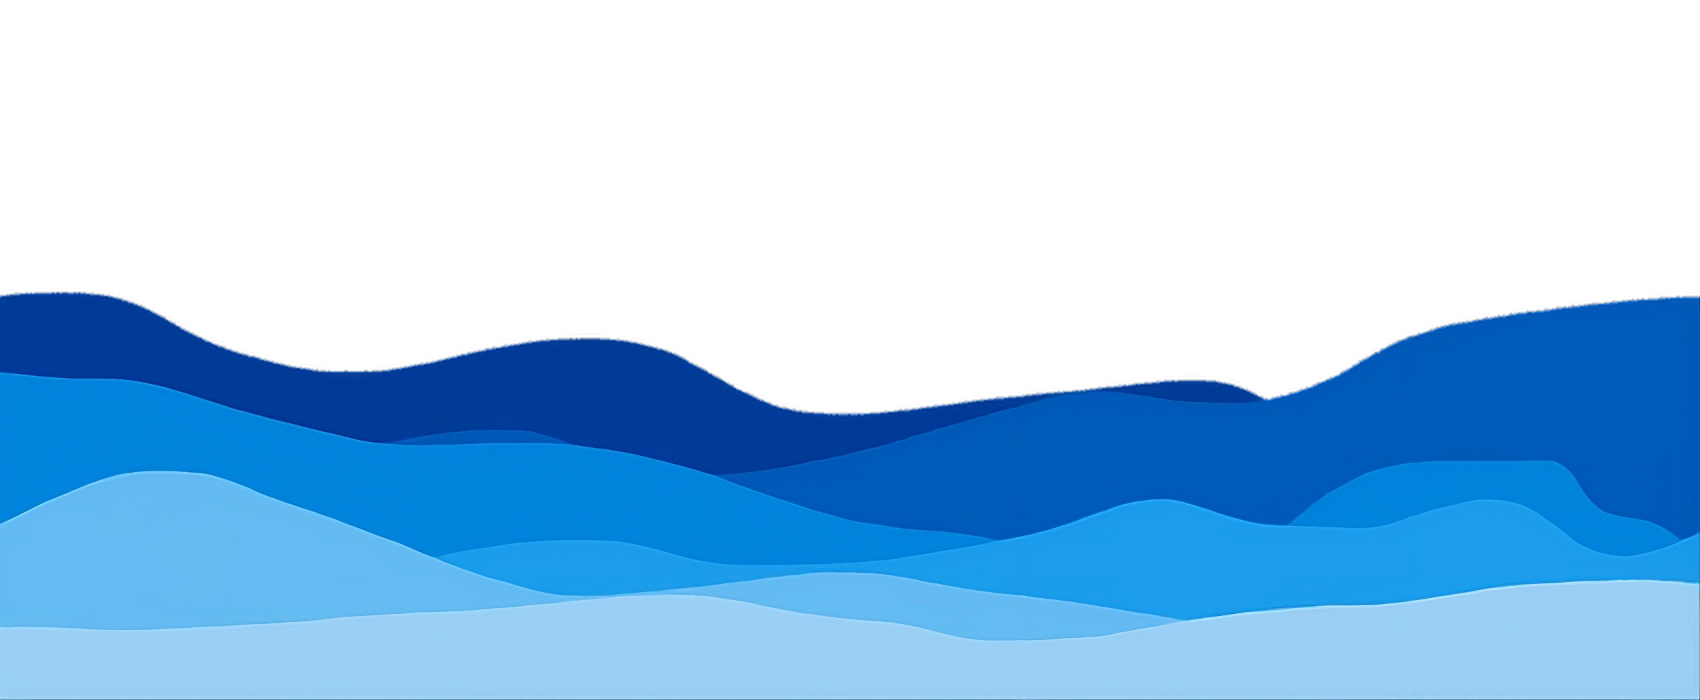
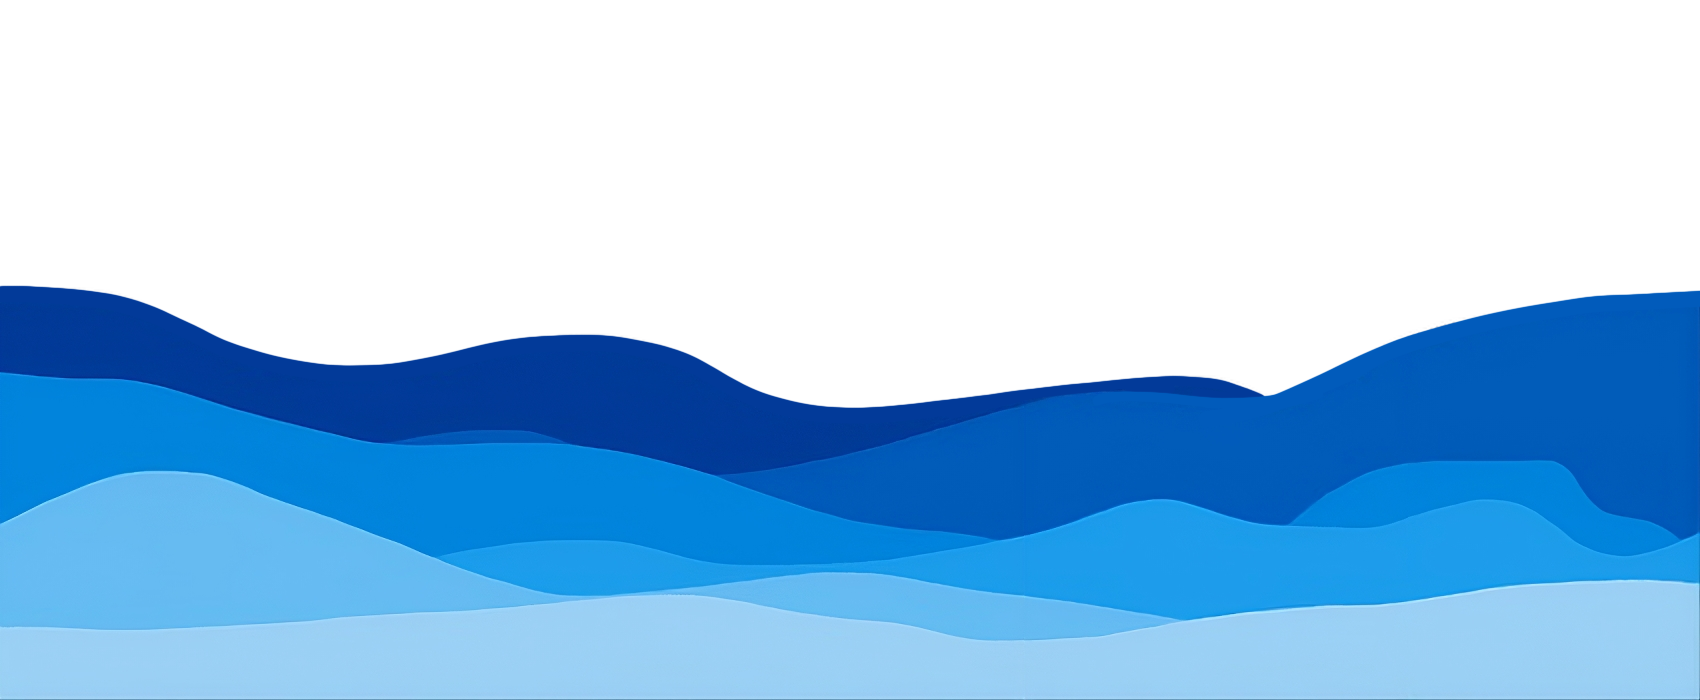
menu at1

diff --git a/estilo.css b/estilo.css
@@ -1,11 +1,12 @@
 body {
-    background-color: rgb(168, 215, 255);
+    background: linear-gradient(rgb(187, 214, 255), rgb(87, 174, 255));
     margin: 0;
 }
 
 #titulo {
     background-color: aliceblue;
-    
+    border-radius: 20px;
+    box-shadow: 0px 4px 10px rgb(42, 152, 255);
 }
 
 h1 {
@@ -19,48 +20,78 @@ h1 {
     display: flex;
     justify-content: center;
     gap: 20vh;
+    margin-bottom: -25vh;
 }
 
 #python {
-    width: 25vh;  
-    height: 20vh;
-    text-align: start;
+    display: flex;
+    flex-direction: column;
+    justify-content: space-between;
+    align-items: center;            
+    width: 25vh;
+    height: 30vh;
     font-family: 'Gill Sans', 'Gill Sans MT', Calibri, 'Trebuchet MS', sans-serif;
     font-size: 5vh;
-    border: 0vh white;
+    border: 0;
     border-radius: 4vh;
-    background-color: rgb(70, 194, 243);
-    color:rgb(222, 240, 255);
+    color: rgb(222, 240, 255);
     cursor: pointer;
     transition: transform 0.3s;
+    background: linear-gradient(
+        to bottom,
+        white 65%,
+        rgb(70, 194, 243) 35%
+    );
+    padding-bottom: 3vh;
+    padding-top: 2vh;
 }
+
 
 #css {
-    width: 25vh;  
-    height: 20vh;
-    text-align: start;
+    display: flex;
+    flex-direction: column;
+    justify-content: space-between;
+    align-items: center;            
+    width: 25vh;
+    height: 30vh;
     font-family: 'Gill Sans', 'Gill Sans MT', Calibri, 'Trebuchet MS', sans-serif;
     font-size: 5vh;
-    border: 0vh white;
+    border: 0;
     border-radius: 4vh;
-    background-color: rgb(46, 105, 231);
-    color:rgb(222, 240, 255);
+    color: rgb(222, 240, 255);
     cursor: pointer;
     transition: transform 0.3s;
+    background: linear-gradient(
+        to bottom,
+        white 65%,
+        rgb(46, 105, 231) 35%
+    );
+    padding-bottom: 3vh;
+    padding-top: 2vh;
 }
 
+
 #html {
-    width: 25vh;  
-    height: 20vh;
-    text-align: start;
+    display: flex;
+    flex-direction: column;
+    justify-content: space-between;
+    align-items: center;            
+    width: 25vh;
+    height: 30vh;
     font-family: 'Gill Sans', 'Gill Sans MT', Calibri, 'Trebuchet MS', sans-serif;
     font-size: 5vh;
-    border: 0vh white;
+    border: 0;
     border-radius: 4vh;
-    background-color: rgb(45, 161, 228);
-    color:rgb(222, 240, 255);
+    color: rgb(222, 240, 255);
     cursor: pointer;
     transition: transform 0.3s;
+    background: linear-gradient(
+        to bottom,
+        white 65%,
+        rgb(45, 161, 228) 35%
+    );
+    padding-bottom: 3vh;
+    padding-top: 2vh;
 }
 
 #python:hover {
@@ -75,8 +106,23 @@ h1 {
     transform: scale(1.1);
 }
 
-img {
+#onda {
     display: block;
     width: 100%;
+    height: 73vh;
 
+}
+
+/*Imagens*/
+
+#pythonI {
+    width: 15vh;
+}
+
+#htmlI {
+    width: 15vh;
+}
+
+#cssI {
+    width: 15vh;
 }

diff --git a/main.html b/main.html
@@ -12,12 +12,24 @@
     </div>
 
     <div class="botoes">
-        <button id="python" onclick="window.location.href='python.html'">Python</button>
-        <button id="html"  onclick="window.location.href='html.html'">HTML</button>
-        <button id="css"  onclick="window.location.href='css.html'">CSS</button>
+        <button id="python" onclick="window.location.href='python.html'">
+            <img id="pythonI" src="python.png">
+
+           • Python •
+        </button>
+        <button id="html"  onclick="window.location.href='html.html'">
+            <img id="htmlI" src="html.png">
+            
+            • HTML •
+        </button>
+        <button id="css"  onclick="window.location.href='css.html'">
+            <img id="cssI" src="css.png">
+            
+            • CSS •
+        </button>
     </div>
 
-    <img src="onda.png">
+    <img id="onda" src="onda.png">
     
 </body>
 </html>
